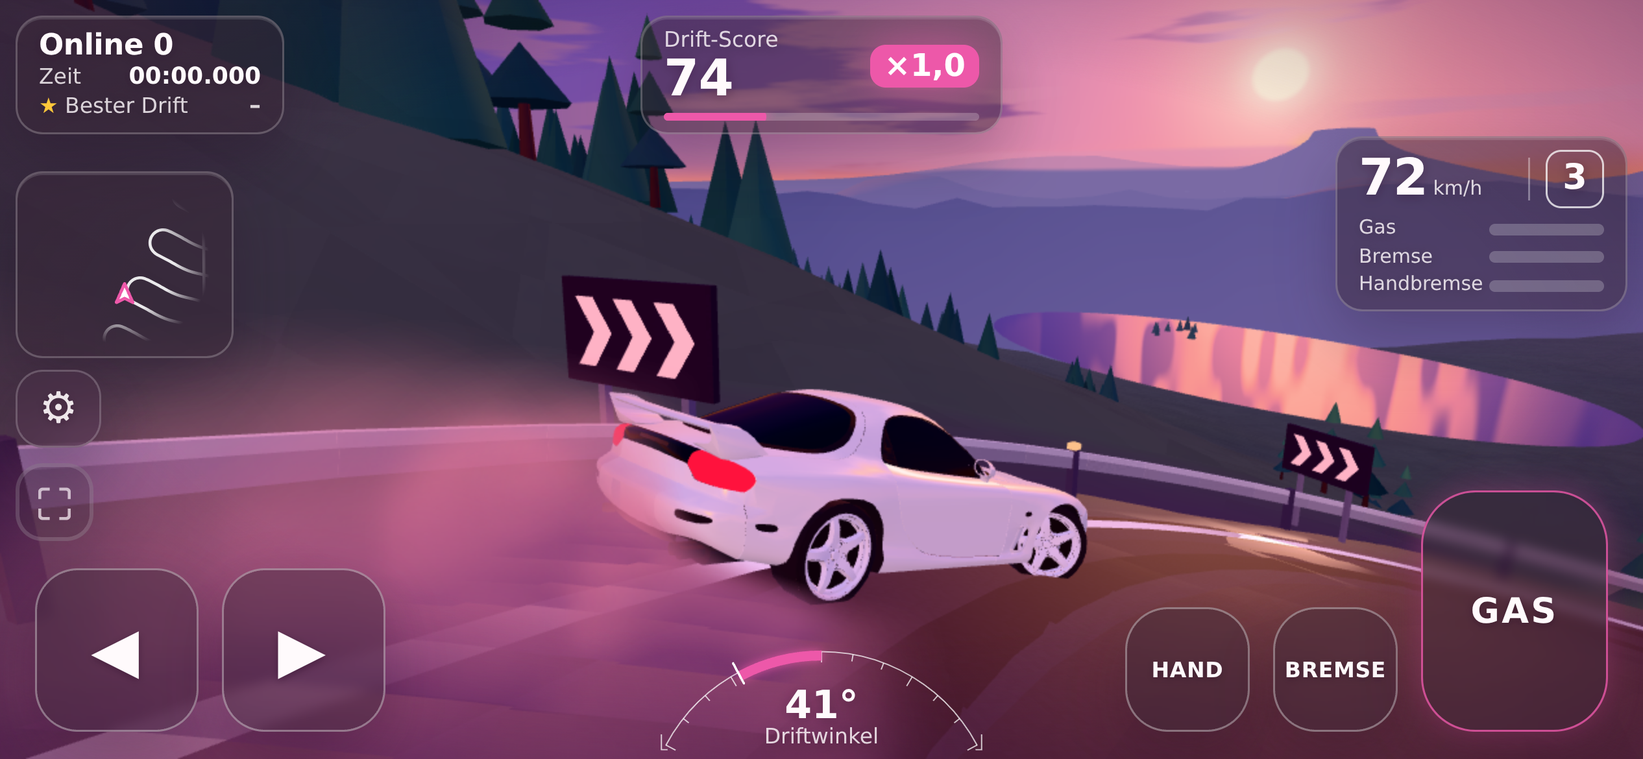
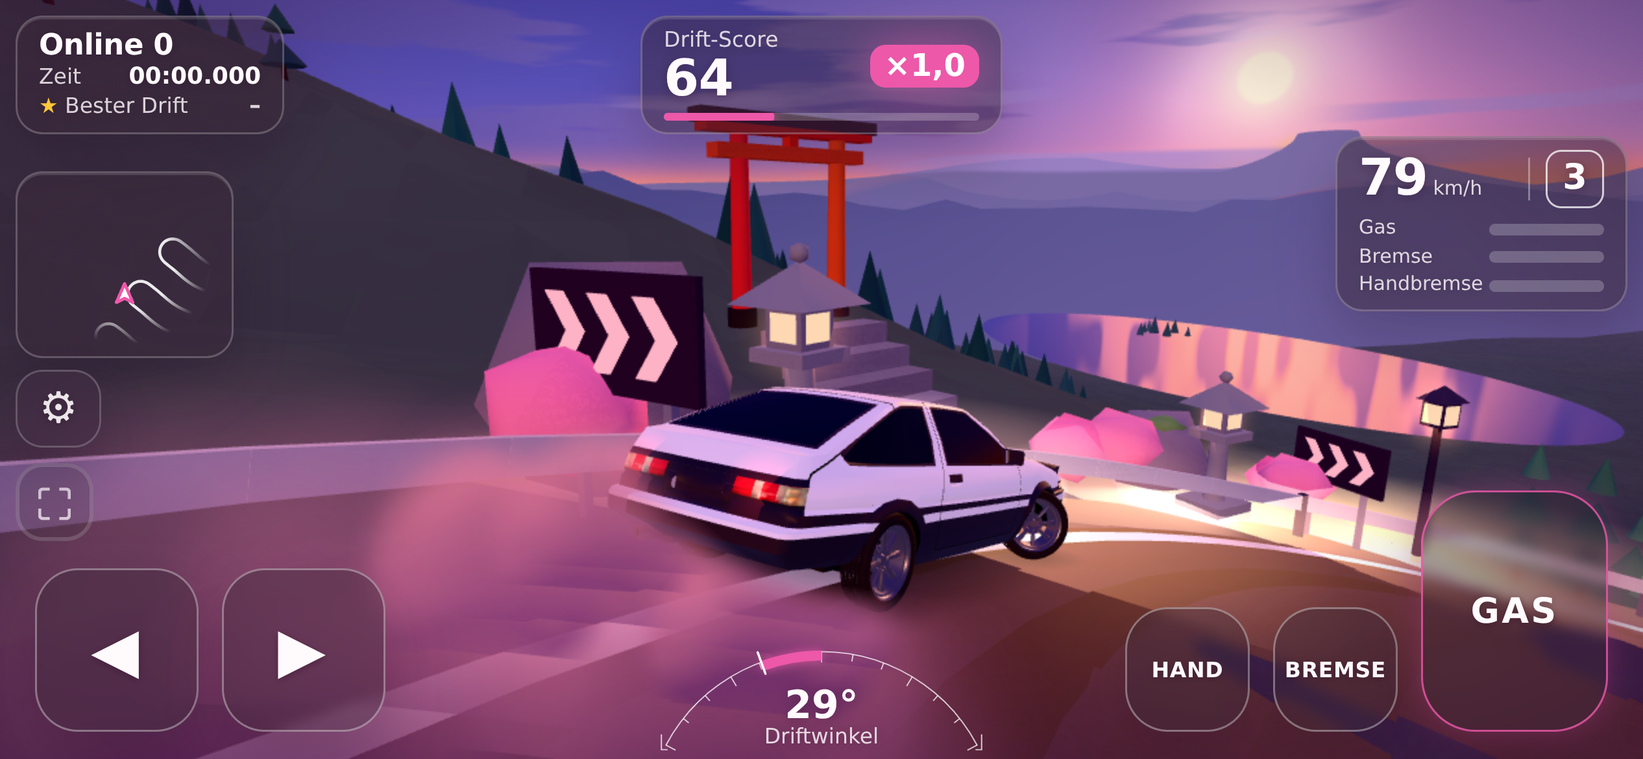
Touge round 11: blue-violet sky top, paint shine from the sky map without sparkle points, hairpin sets (rock wall, torii with stair, stone lanterns, post lantern, cherry bushes, inside island, light pools), lit plaza with slabs and edges, phone 116k; LOOK-LOG.md

diff --git a/game/view/look/world.js b/game/view/look/world.js
@@ -69,13 +69,16 @@ export function buildWorld(scene, look, tierName = 'high') {
   if (scene.bridge) bridge(S, f, scene, look, lite);
   // the road has its own mesh: a slightly glossy material that shines in the low sun (the page gives it the sky as reflection)
   const Rb = new Builder({ seed: 7, jitter: 0, wobble: 0, bake: false });
+  Rb.lite = lite;
   road(Rb, f, look, onPlaza, mulberry32(23), lite, scene);
   zones(Rb, f, scene, look);
-  if (scene.plaza) plaza(S, G, f, scene, look, lite, lampHeads);
   const pools = [];   // warm pools of light on the ground under the lamps and lanterns: [x, y, z, radius] in drawing space
+  if (scene.plaza) plaza(S, G, f, scene, look, lite, lampHeads, pools);
   roadside(S, G, f, look, tier, sideInfo, onPlaza, scene, nearPlaza, lampHeads, pools);
   trees(S, f, scene, look, tier, rnd, lite);
-  rocks(S, f, look, tier, rnd, sideInfo, lite);
+  // no loose boulders where a hairpin has its own set (scene.road.bendSets): the wall is there
+  const sets = scene.road.bendSets ? bends(f.info, { min: f.bendMin, span: f.bendSpan }).filter((b) => Math.abs(b.turn) > 1).map((b) => pointAt(f.road, f.info, b.s + 15)) : [];
+  rocks(S, f, look, tier, rnd, sideInfo, lite, (x, z) => sets.some((p) => Math.hypot(p.x - x, p.z - z) < 38));
   details(S, G, f, scene, look, tier, mulberry32(29), lite, sideInfo, onPlaza);
   if (scene.road.lamps) roadLamps(S, G, f, scene, look, sideInfo, lampHeads, pools);
   if (scene.props) props(S, G, f, scene, look, lite, lampHeads);
@@ -275,8 +278,10 @@ function strip(S, f, a, b, ya, yb, colour, keep = () => true) {
 
 /** A ribbon along the road through lateral offsets `offs` (metres, + = right), coloured per road point and column, at the road's drawn height. */
 function ribbon(S, f, offs, colour, { y = 0.02, keep = () => true, dy = () => 0, shift = () => 0 } = {}) {
-  const right = (d) => [d[1], -d[0]], runs = [];
-  for (let i = 0; i < f.road.length; i++) if (keep(i)) { if (!runs.length || i !== runs[runs.length - 1].at(-1) + 1) runs.push([i]); else runs[runs.length - 1].push(i); }
+  const right = (d) => [d[1], -d[0]], runs = [], H = f.info.head, n = f.road.length;
+  // a lite builder (the phone) takes every second point where the road runs nearly straight; in the bends every point stays
+  const fine = (i) => !S.lite || i % 2 === 0 || i === n - 1 || Math.abs(Math.atan2(Math.sin(H[Math.min(n - 1, i + 1)] - H[Math.max(0, i - 1)]), Math.cos(H[Math.min(n - 1, i + 1)] - H[Math.max(0, i - 1)]))) > 0.06;
+  for (let i = 0; i < n; i++) if (keep(i) && fine(i)) { const last = runs.at(-1)?.at(-1); if (last === undefined || !(i === last + 1 || (i === last + 2 && keep(last + 1)))) runs.push([i]); else runs[runs.length - 1].push(i); }
   for (const run of runs) {
     if (run.length < 2) continue;
     const g = gridGeo(run.length, offs.length, (r, c) => {
@@ -361,11 +366,20 @@ function zones(S, f, scene, look) {
 }
 
 // ---------------------------------------------------------------- the meeting place: surface, bays, kerb, a rail on the valley side, lamps, benches, its own trees
-function plaza(S, G, f, scene, look, lite, lampHeads) {
-  const P = scene.plaza, R = look.road, pts = P.pts;
+function plaza(S, G, f, scene, look, lite, lampHeads, pools = []) {
+  const P = scene.plaza, R = look.road, pts = P.pts, rnd = mulberry32(41);
+  // scene.plaza.slabs (metres): the floor in stone slabs, each a little lighter or darker, with lighter joints between them (the joints are the floor below)
+  if (P.slabs && P.surface !== false) {
+    const xs = pts.map((p) => p[0]), zs = pts.map((p) => p[1]), n = P.slabs, gap = 0.09, base = C(R.plaza), k = new THREE.Color();
+    for (let x = Math.min(...xs); x < Math.max(...xs); x += n) for (let z = Math.min(...zs); z < Math.max(...zs); z += n) {
+      if (![[x, z], [x + n, z], [x, z + n], [x + n, z + n]].every(([a, b]) => insidePoly(pts, a, b))) continue;
+      k.copy(base).multiplyScalar(0.78 + rnd() * 0.3).lerp(C(R.asphaltLight), 0.2 * noise2(x / 15, z / 15) + 0.15);
+      S.box(n - gap, 0.03, n - gap, X(x + n / 2), 0.03, z + n / 2, k.clone(), { r: 0, jitter: 0 });
+    }
+  }
   if (P.surface !== false) {
   const tris = THREE.ShapeUtils.triangulateShape(pts.map(([x, z]) => new THREE.Vector2(x, z)), []);
-  const pos = [], col = [], base = C(R.plaza), k = new THREE.Color();
+  const pos = [], col = [], base = P.slabs ? C(R.plaza).lerp(C(R.kerb), 0.35) : C(R.plaza), k = new THREE.Color();   // under slabs: the light joints
   for (const t of tris) for (const v of t) { const [x, z] = pts[v]; pos.push(X(x), 0.012, z); k.copy(base).lerp(C(R.asphaltLight), 0.3 + 0.3 * noise2(x / 20, z / 20)); col.push(k.r, k.g, k.b); }
   const g = new THREE.BufferGeometry();
   g.setAttribute('position', new THREE.Float32BufferAttribute(pos, 3)); g.setAttribute('color', new THREE.Float32BufferAttribute(col, 3));
@@ -387,6 +401,28 @@ function plaza(S, G, f, scene, look, lite, lampHeads) {
     else if (!roadHere && P.kerb !== false) S.box(0.3, 0.16, len, X(mx), 0.08, mz, C(R.kerb), { r: 0, ry });
     const fall = f.base(mx + nx * out * 14, mz + nz * out * 14) < -2;
     if (P.rail && fall && !roadHere) railRun(S, G, look, [[p[0] + nx * out * 0.7, p[1] + nz * out * 0.7], [q[0] + nx * out * 0.7, q[1] + nz * out * 0.7]], 4, lite);
+    // scene.plaza.edges: where the land beyond rises a bank of soft rocks, moss and cherry bushes; where it falls stone lanterns with their light
+    if (P.edges && !roadHere) {
+      const rise = f.base(mx + nx * out * 10, mz + nz * out * 10) > 1.5, L2 = look.land;
+      for (let d = 2; d < len - 1; d += rise ? (lite ? 4 : 2.6) : 14) {
+        const bx = p[0] + (dx / len) * d, bz = p[1] + (dz / len) * d;
+        if (Math.hypot(bx - start[0], bz - start[1]) < 12) continue;   // the way out to the road stays clear
+        if (rise) {
+          const o = 1.6 + rnd() * 1.2, x = bx + nx * out * o, z = bz + nz * out * o, r = 0.8 + rnd() * 0.7;
+          S.ball(r, X(x), r * 0.5, z, C(L2.rock).lerp(C(L2.rockDark), rnd() * 0.6), { detail: 1, sx: 1.3, sy: 0.9, sz: 1.0, ry: rnd() * 3 });
+          if (rnd() < 0.5) S.ball(r * 0.6, X(x), r * 1.0, z, C(L2.high).lerp(C(L2.moss ?? '#6f8a5c'), 0.6), { detail: 1, sx: 1.3, sy: 0.45, sz: 1.1 });
+          if (rnd() < 0.35) bush(S, look, x - nx * out * 1.4, 0, z - nz * out * 1.4, 0.8 + rnd() * 0.3, rnd, lite);
+        } else {
+          const x = bx - nx * out * 0.9, z = bz - nz * out * 0.9;
+          stoneLantern(S, G, look, x, 0, z, ry, 0.95); lampHeads.push([X(x), 1.75, z, 1.5]); pools.push([X(x), 0, z, 4.5]);
+        }
+      }
+    }
+  }
+  // scene.plaza.gateLights: a stone lantern on each side of the torii where the road leaves, lighting its pillars from below
+  for (const m of P.gateLights ? scene.marks ?? [] : []) if (m.type === 'gate') for (const sd of [-1, 1]) {
+    const w = (m.width ?? 2.6) / 2 + 1.4, ry = m.ry ?? 0, x = m.x + Math.cos(ry) * sd * w, z = m.z - Math.sin(ry) * sd * w;
+    stoneLantern(S, G, look, x, f.height(x, z), z, ry, 1.1); lampHeads.push([X(x), f.height(x, z) + 2.0, z, 1.8]); pools.push([X(x), f.height(x, z), z, 6]);
   }
   const L = look.lamp;
   for (const [x, z] of P.lamps ?? []) {
@@ -394,6 +430,7 @@ function plaza(S, G, f, scene, look, lite, lampHeads) {
     S.box(0.18, 0.18, 1.6, X(x), 6.2, z - 0.7, C(L.pole), { r: 0 });
     G.box(0.5, 0.06, 0.32, X(x), 6.08, z - 1.35, glow(L.light, 2.2), { r: 0 });
     lampHeads.push([X(x), 6.0, z - 1.35]);
+    if (L.pool) pools.push([X(x), 0, z - 1.35, L.pool * 1.2]);
   }
   for (const [x, z, h] of P.benches ?? []) {
     S.box(2.0, 0.08, 0.5, X(x), 0.48, z, C('#8a6a5e'), { r: 0, ry: -h });
@@ -420,8 +457,11 @@ function railRun(S, G, look, line0, every, lite, yAt = () => 0) {
     const [ax, az] = line[i], [bx, bz] = line[i + 1], dx = bx - ax, dz = bz - az, len = Math.hypot(dx, dz);
     if (len < 0.01) continue;
     const ry = Math.atan2(X(dx), dz), ya = yAt(ax, az), yb = yAt(bx, bz), ym = (ya + yb) / 2, rx = -Math.atan2(yb - ya, len);
-    S.box(0.08, 0.2, len + 0.05, X((ax + bx) / 2), 0.52 + ym, (az + bz) / 2, beam, { r: 0, ry, rx, jitter: 0 });   // a W-beam at 0.75 m, as on real roads
-    S.box(0.1, 0.1, len + 0.05, X((ax + bx) / 2), 0.66 + ym, (az + bz) / 2, light, { r: 0, ry, rx, jitter: 0 });
+    if (lite) S.box(0.1, 0.28, len + 0.05, X((ax + bx) / 2), 0.56 + ym, (az + bz) / 2, beam.clone().lerp(light, 0.5), { r: 0, ry, rx, jitter: 0 });   // the phone: one beam
+    else {
+      S.box(0.08, 0.2, len + 0.05, X((ax + bx) / 2), 0.52 + ym, (az + bz) / 2, beam, { r: 0, ry, rx, jitter: 0 });   // a W-beam at 0.75 m, as on real roads
+      S.box(0.1, 0.1, len + 0.05, X((ax + bx) / 2), 0.66 + ym, (az + bz) / 2, light, { r: 0, ry, rx, jitter: 0 });
+    }
     for (let d = (every - acc) % every; d < len; d += every) {
       const t = d / len, px = X(ax + dx * t), pz = az + dz * t, py = ya + (yb - ya) * t;
       S.box(0.13, 3.0, 0.13, px, -0.75 + py, pz, post, { r: 0, ry });   // long posts: on a cliff edge the land below may already fall away
@@ -477,6 +517,7 @@ function roadside(S, G, f, look, tier, sideInfo, onPlaza, scene, nearPlaza = () 
     }
     // look.lantern.bends: a stone lantern on the inside of every bend and one at its exit on the outside (between the road and the rail, where the
     // chase camera looks), each with a warm pool of light round it
+    if (scene.road.bendSets && Math.abs(b.turn) > 1) { bendSet(S, G, f, look, b, lampHeads, pools, tier.cell > 8); continue; }
     if (look.lantern?.bends) for (const [ds, sd, o] of [[0, -out, hw + 2.4], [20, out, hw + 0.95]]) {
       const p = pointAt(f.road, f.info, b.s + ds), r = right(p.dir), side = sd;
       const x = p.x + r[0] * side * o, z = p.z + r[1] * side * o, y = Math.max(f.height(x, z), f.roadY(b.s + ds) - 0.2), k = look.lantern.size ?? 1.1;
@@ -581,9 +622,10 @@ function trees(S, f, scene, look, tier, rnd, lite) {
 }
 
 // ---------------------------------------------------------------- rocks: faceted boulders at the foot of the cut and on steep slopes
-function rocks(S, f, look, tier, rnd, sideInfo, lite) {
+function rocks(S, f, look, tier, rnd, sideInfo, lite, clear = () => false) {
   const L = look.land, right = (d) => [d[1], -d[0]];
   const boulder = (x, z, r) => {
+    if (clear(x, z)) return;
     const y = f.height(x, z);
     S.ball(r, X(x), y + r * 0.25, z, C(L.rock).lerp(C(L.rockDark), rnd() * 0.7), { detail: lite ? 0 : 1, sx: 0.8 + rnd() * 0.5, sy: 0.55 + rnd() * 0.3, sz: 0.8 + rnd() * 0.5, ry: rnd() * 3, rx: rnd() * 0.3 });
   };
@@ -605,6 +647,77 @@ function rocks(S, f, look, tier, rnd, sideInfo, lite) {
 // ---------------------------------------------------------------- the small things: grass tufts and stones at the roadside, bushes, petals under the
 // cherry trees, power poles with sagging wires along the slope, a stone lantern and a small shrine gate by the plaza
 const TRI = (() => { const g = new THREE.BufferGeometry(); g.setAttribute('position', new THREE.Float32BufferAttribute([-0.5, 0, -0.35, 0.5, 0, -0.2, 0, 0, 0.45], 3)); g.setAttribute('normal', new THREE.Float32BufferAttribute([0, 1, 0, 0, 1, 0, 0, 1, 0], 3)); return g; })();
+
+/** A torii: two red pillars, a tie beam and a black-capped top beam, `w` wide and `hh` high, facing along ry. */
+function torii(S, look, x, y, z, ry, w = 2.6, hh = 3.2) {
+  const red = C(look.lantern?.gate ?? '#c8423f'), k = hh / 3.2;
+  S.push(trs(X(x), y, z, 0, ry, 0));
+  for (const sx of [-w / 2, w / 2]) { S.cyl(0.14 * k, 0.17 * k, hh, sx, hh / 2, 0, red, { seg: 8 }); S.cyl(0.24 * k, 0.24 * k, 0.3 * k, sx, 0.15 * k, 0, C('#2e2428'), { seg: 8 }); }
+  S.box(w + 1.0 * k, 0.22 * k, 0.3 * k, 0, 2.75 * k, 0, red, { r: 0.03 });
+  S.box(w + 1.6 * k, 0.2 * k, 0.36 * k, 0, 3.25 * k, 0, C('#2e2428'), { r: 0.03 });
+  S.box(w + 1.4 * k, 0.16 * k, 0.32 * k, 0, 3.1 * k, 0, red, { r: 0.02 });
+  S.box(0.18 * k, 0.5 * k, 0.2 * k, 0, 3.0 * k, 0, red, { r: 0 });
+  S.pop();
+}
+
+/** A low cherry bush: a few soft pink balls, lighter on top (no trunk). */
+function bush(S, look, x, y, z, r, rnd, lite) {
+  const P = look.cherry, light = C(P.blossom[3]), dark = C(P.blossom[2]);
+  for (let k = 0, n = lite ? 3 : 5; k < n; k++) {
+    const a = rnd() * 6.3, d = k ? r * (0.5 + rnd() * 0.4) : 0, up = k ? rnd() : 1, rr = r * (k ? 0.5 + rnd() * 0.25 : 0.75);
+    S.ball(rr, X(x + Math.cos(a) * d), y + rr * 0.8 + up * r * 0.3, z + Math.sin(a) * d, C(P.blossom[Math.floor(rnd() * 2)]).lerp(up > 0.5 ? light : dark, 0.4), { detail: lite ? 0 : 1, sy: 0.8 });
+  }
+}
+
+/** A lantern on a post (the road's warm lights in the mockup): a dark post, a box with glowing glass, a small roof; `h` high. */
+function postLantern(S, G, look, x, y, z, ry, h = 2.8) {
+  const pole = C(look.lamp.pole);
+  S.cyl(0.07, 0.09, h, X(x), y + h / 2, z, pole, { seg: 6 });
+  S.box(0.42, 0.5, 0.42, X(x), y + h + 0.25, z, pole, { r: 0.02, ry });
+  G.box(0.34, 0.38, 0.44, X(x), y + h + 0.25, z, glow(look.lamp.light, look.lantern?.glow ?? 2.4), { r: 0, ry });
+  G.box(0.44, 0.38, 0.34, X(x), y + h + 0.25, z, glow(look.lamp.light, look.lantern?.glow ?? 2.4), { r: 0, ry });
+  S.cone(0.42, 0.3, X(x), y + h + 0.65, z, pole, { seg: 4, ry: ry + Math.PI / 4 });
+}
+
+/**
+ * The set of a hairpin as in the mockup (scene.road.bendSets; bends sharper than |turn| 1): on the outside a rock wall in soft stacked
+ * boulders with moss on top, a red torii at the top of a stone stair in a gap of the wall, stone lanterns, cherry bushes and a lantern
+ * on a post; on the inside a small island behind a kerb with mossy rocks, a stone lantern and a bush. Every light leaves a warm pool.
+ */
+function bendSet(S, G, f, look, b, lampHeads, pools, lite) {
+  const rnd = mulberry32(Math.round(b.s * 7)), hw = f.hw, out = b.turn > 0 ? -1 : 1, right = (d) => [d[1], -d[0]], L = look.land;
+  // a place at `ds` metres from the apex, `o` metres out from the road's middle on `side`: x, z, the ground there, the road's height, the road's heading
+  const at = (ds, o, side) => { const p = pointAt(f.road, f.info, b.s + ds), r = right(p.dir), x = p.x + r[0] * side * o, z = p.z + r[1] * side * o, ry = f.roadY(b.s + ds);
+    return { x, z, y: Math.max(f.height(x, z), ry - 0.15), road: ry, ry: Math.atan2(X(p.dir[0]), p.dir[1]), face: Math.atan2(-X(r[0] * side), -r[1] * side) }; };
+  const light = (q, h, pool, halo) => { lampHeads.push([X(q.x), q.y + h, q.z, halo]); pools.push([X(q.x), q.road, q.z, pool]); };
+  const rock = () => C(L.rock).lerp(C(L.rockDark), rnd() * 0.6), moss = () => C(L.high).lerp(C(look.land.moss ?? '#6f8a5c'), 0.5 + rnd() * 0.5);
+  // the outside right after the apex is what the chase camera has on its left (further on the outside lies straight ahead, the view into
+  // the valley stays open): there the rock wall, with a gap for the stair up to the torii
+  const stairAt = 4.5;
+  for (let ds = 1; ds < 9; ds += lite ? 2.6 : 1.8) {
+    if (Math.abs(ds - stairAt) < 1.8) continue;
+    const q = at(ds, hw + 3.2 + rnd() * 0.6, out), r = 0.9 + rnd() * 0.5;
+    S.ball(r, X(q.x), q.y + r * 0.8, q.z, rock(), { detail: lite ? 0 : 1, sx: 1.2, sy: 1.3, sz: 0.9, ry: rnd() * 3 });
+    // a second boulder on top (on the ground of the first, set back a little) and moss on the highest one
+    let topX = q.x, topZ = q.z, topY = q.y + r * 1.75, topR = r;
+    if (!lite) { const q2 = at(ds + 0.6, hw + 3.8, out), r2 = r * 0.8; S.ball(r2, X(q2.x), q.y + r * 1.5 + r2 * 0.6, q2.z, rock(), { detail: 1, sx: 1.2, sy: 1.2, sz: 0.9, ry: rnd() * 3 }); topX = q2.x; topZ = q2.z; topY = q.y + r * 1.5 + r2 * 1.95; topR = r2; }
+    if (rnd() < 0.6) S.ball(topR * 0.55, X(topX), topY - topR * 0.12, topZ, moss(), { detail: 1, sx: 1.2, sy: 0.45, sz: 1.0 });   // moss and grass on the ledges
+  }
+  // the stair up through the gap and the torii at its top
+  const steps = 6;
+  for (let k = 0; k < steps; k++) { const q = at(stairAt, hw + 2.6 + k * 0.55, out); S.box(2.4, 0.36, 0.6, X(q.x), q.road + 0.18 + k * 0.36, q.z, C(look.lantern.stone).lerp(C(L.rockDark), 0.2 + (k % 2) * 0.15), { r: 0.04, ry: q.face }); }
+  const top = at(stairAt, hw + 2.6 + steps * 0.55 + 0.4, out);
+  torii(S, look, top.x, top.road + steps * 0.36, top.z, top.face, 2.2, 3.4);
+  // stone lanterns in front of the wall, a lantern on a post, cherry bushes
+  for (const ds of [1.5, 8.5]) { const q = at(ds, hw + 1.7, out); stoneLantern(S, G, look, q.x, q.road, q.z, q.ry, 1.0); light(q, 1.85, 5, 1.6); }
+  { const q = at(12, hw + 0.9, out); postLantern(S, G, look, q.x, q.road, q.z, q.ry); light(q, 3.05, 6, 2.0); }
+  for (const [ds, o] of [[0, hw + 2.3], [7, hw + 2.3], [10.5, hw + 2.2]]) { const q = at(ds, o, out); bush(S, look, q.x, q.road, q.z, 0.8 + rnd() * 0.3, rnd, lite); }
+  // the inside: a kerb, mossy rocks, a stone lantern and a bush on a small island
+  for (let ds = -10; ds < 16; ds += 1.6) { const q = at(ds, hw + 0.35, -out); S.box(0.3, 0.22, 1.7, X(q.x), q.road + 0.11, q.z, C(look.road.kerb), { r: 0.04, ry: q.ry }); }
+  for (const [ds, o, r] of [[0, hw + 3.4, 1.3], [7, hw + 4.4, 1.0], [-6, hw + 3.8, 0.9]]) { const q = at(ds, o, -out); S.ball(r, X(q.x), q.road + r * 0.45, q.z, rock(), { detail: 1, sy: 0.75, ry: rnd() * 3 }); S.ball(r * 0.6, X(q.x), q.road + r * 1.05, q.z, moss(), { detail: 1, sx: 1.2, sy: 0.4, sz: 1.2 }); }
+  { const q = at(4, hw + 2.2, -out); stoneLantern(S, G, look, q.x, q.road, q.z, q.ry, 1.05); light(q, 1.95, 5, 1.6); }
+  { const q = at(-2, hw + 2.0, -out); bush(S, look, q.x, q.road, q.z, 1.0, rnd, lite); }
+}
 
 /** A stone lantern (tōrō): plinth, shaft, the light box with a warm window, a pyramid roof; `k` scales it. */
 function stoneLantern(S, G, look, x, y, z, ry, k = 1) {
@@ -683,15 +796,7 @@ function details(S, G, f, scene, look, tier, rnd, lite, sideInfo, onPlaza) {
       S.box(0.15, 0.14, 0.15, X(m.x), y + 0.7, m.z, C('#2b2630'), { r: 0.02, jitter: 0 });
       G.box(0.13, 0.3, 0.155, X(m.x), y + 0.8, m.z, glow(look.chevron?.arrow ?? '#ff5a96', 4), { r: 0, jitter: 0 });   // seen from every side, as bright as the chevrons
     } else if (m.type === 'gate') {
-      S.push(trs(X(m.x), y, m.z, 0, ry, 0));
-      // a torii: two red pillars, a tie beam and a black-capped top beam; m.width / m.height scale it (a road torii is wide)
-      const w = m.width ?? 2.6, hh = m.height ?? 3.2, k = hh / 3.2;
-      for (const sx of [-w / 2, w / 2]) { S.cyl(0.14 * k, 0.17 * k, hh, sx, hh / 2, 0, red, { seg: 8 }); S.cyl(0.24 * k, 0.24 * k, 0.3 * k, sx, 0.15 * k, 0, C('#2e2428'), { seg: 8 }); }
-      S.box(w + 1.0 * k, 0.22 * k, 0.3 * k, 0, 2.75 * k, 0, red, { r: 0.03 });
-      S.box(w + 1.6 * k, 0.2 * k, 0.36 * k, 0, 3.25 * k, 0, C('#2e2428'), { r: 0.03 });
-      S.box(w + 1.4 * k, 0.16 * k, 0.32 * k, 0, 3.1 * k, 0, red, { r: 0.02 });
-      S.box(0.18 * k, 0.5 * k, 0.2 * k, 0, 3.0 * k, 0, red, { r: 0 });
-      S.pop();
+      torii(S, look, m.x, y, m.z, ry, m.width ?? 2.6, m.height ?? 3.2);
     }
   }
 }

diff --git a/game/view/look/sky.js b/game/view/look/sky.js
@@ -17,6 +17,8 @@ export function makeSky(look, radius = 1800) {
       uTop: { value: new THREE.Color(s.top) }, uMid: { value: new THREE.Color(s.mid) }, uHorizon: { value: new THREE.Color(s.horizon) },
       uBelow: { value: new THREE.Color(s.below) }, uSun: { value: new THREE.Color(s.sun).multiplyScalar(s.sunGlow ?? 1) }, uGlow: { value: new THREE.Color(s.glow) },
       uSunDir: { value: sunDirection(look) }, uSunCos: { value: Math.cos((s.sunSize * Math.PI) / 180) }, uMidH: { value: s.midHeight }, uStrength: { value: s.glowStrength },
+      // sky.warmHeight: how far above the sun the warm side of the sky reaches (default 0.35); sky.topHeight: where the top colour is reached (default 0.8)
+      uWarmH: { value: s.warmHeight ?? 0.35 }, uTopH: { value: s.topHeight ?? 0.8 },
       uCloudLit: { value: new THREE.Color(cl.lit) }, uCloudShade: { value: new THREE.Color(cl.shade) }, uClouds: { value: cl.amount },
       // a moon (look.sky.moon: dir in simulation axes, size in degrees, colour, glow): a disc with a soft halo, a little darker on the side away from the sun
       uMoonDir: { value: s.moon ? new THREE.Vector3(X(s.moon.dir[0]), s.moon.dir[1], s.moon.dir[2]).normalize() : new THREE.Vector3(0, -1, 0) },
@@ -27,7 +29,7 @@ export function makeSky(look, radius = 1800) {
       void main() { vDir = position; gl_Position = projectionMatrix * modelViewMatrix * vec4(position, 1.0); }`,
     fragmentShader: /* glsl */ `
       uniform vec3 uTop, uMid, uHorizon, uBelow, uSun, uGlow, uSunDir, uCloudLit, uCloudShade;
-      uniform float uSunCos, uMidH, uStrength, uClouds, uMoonCos, uMoonGlow;
+      uniform float uSunCos, uMidH, uStrength, uClouds, uMoonCos, uMoonGlow, uWarmH, uTopH;
       uniform vec3 uMoonDir, uMoon;
       varying vec3 vDir;
       float h2(vec2 p) { return fract(sin(dot(p, vec2(127.1, 311.7))) * 43758.5453); }
@@ -38,11 +40,11 @@ export function makeSky(look, radius = 1800) {
         vec3 d = normalize(vDir);
         float e = d.y;
         vec3 col = e < 0.0 ? mix(uHorizon, uBelow, smoothstep(0.0, -0.2, e))
-                 : e < uMidH ? mix(uHorizon, uMid, smoothstep(0.0, uMidH, e)) : mix(uMid, uTop, smoothstep(uMidH, 0.8, e));
+                 : e < uMidH ? mix(uHorizon, uMid, smoothstep(0.0, uMidH, e)) : mix(uMid, uTop, smoothstep(uMidH, uTopH, e));
         float c = max(dot(d, uSunDir), 0.0);
-        float band = 1.0 - smoothstep(0.0, 0.35, abs(e - uSunDir.y));
+        float band = 1.0 - smoothstep(0.0, uWarmH, abs(e - uSunDir.y));
         col = mix(col, uGlow, pow(c, 3.0) * band * 0.5 * uStrength);           // the warm side of the sky
-        col += uGlow * (pow(c, 12.0) * 0.45 + pow(c, 80.0) * 0.9) * uStrength;  // the soft halo round the sun
+        col += uGlow * (pow(c, 12.0) * 0.45 * (1.0 - smoothstep(0.0, uWarmH * 1.5, e - uSunDir.y)) + pow(c, 80.0) * 0.9) * uStrength;  // the soft halo round the sun (the wide part stays low)
         // soft streaks of cloud above the horizon, lit from below on the sun's side
         // azimuth measured from the sun, so the seam of atan (at +-pi) lies behind the viewer when looking towards the sun side
         vec2 sh = normalize(uSunDir.xz + vec2(1e-4)); float az = atan(d.x * sh.y - d.z * sh.x, d.x * sh.x + d.z * sh.y);

diff --git a/game/view/look/stage.js b/game/view/look/stage.js
@@ -152,7 +152,7 @@ export function carMaker(stage) {
     if (look.car?.tail) materials.light_rear.color.set(look.car.tail).multiplyScalar(look.car.tailGlow ?? 1);
     // look.car.gloss: { env, roughness, coat }: how much of the sky the paint mirrors (dusk: less, so the roof shows its shape, not white)
     const gl = look.car?.gloss;
-    if (gl) { const p = materials.paint; if (gl.env !== undefined) p.envMapIntensity = gl.env; if (gl.roughness !== undefined) p.roughness = gl.roughness; if (gl.coat !== undefined && p.clearcoatRoughness !== undefined) p.clearcoatRoughness = gl.coat; if (gl.clearcoat !== undefined && p.clearcoat !== undefined) p.clearcoat = gl.clearcoat; }
+    if (gl) { const p = materials.paint; if (gl.env !== undefined) p.envMapIntensity = gl.env; if (gl.roughness !== undefined) p.roughness = gl.roughness; if (gl.coat !== undefined && p.clearcoatRoughness !== undefined) p.clearcoatRoughness = gl.coat; if (gl.clearcoat !== undefined && p.clearcoat !== undefined) p.clearcoat = gl.clearcoat; if (gl.specular !== undefined && p.specularIntensity !== undefined) p.specularIntensity = gl.specular; }   // gloss.specular: the direct lights' highlight (lower: no sparkling points, the shine comes from the sky map)
     const m = model ? await loadCarModel(model, { tier: carTier, materials }) : null;
     return m ? { ...m, materials } : buildS15({ paint: new THREE.Color(paint).getHex(), kit, tier: carTier, env });
   };

diff --git a/docs/LOOK-LOG.md b/docs/LOOK-LOG.md
@@ -454,3 +454,31 @@ lanterns (`lantern.bends`, `lamp.pool`); halos sized per head. Lighter rocks.
 Palette shot=tal: mean 63 (brightness 91 / 91, saturation 0.41 / 0.33). High 351k / 52, phone 133k / 25.
 Not done: the stone lanterns do not show in shot=tal or shot=kehre yet (placement); smoke lacks the mockup's shaded round shapes;
 scene.environment for the car (G1); the big boulder above the board in shot=tal; E1, E2, E5, F6.
+
+## Touge round 11 (2026-11-26)
+
+Done:
+- Sky: blue-violet at the top again. The warm side of the sky and the wide sun halo stay low (`sky.warmHeight`); the top colour is
+  reached lower (`sky.topHeight`); lilac instead of pink cloud streaks, fewer of them; saturation 0.85; a darker mauve road.
+- Paint (G1): the paint already took the dusk sky map; the two sparkling points at the roof edge were the direct sun in a very smooth
+  clear coat (seen by switching parts off). Now the shine comes from the sky map: clear coat 0.15, coat roughness 0.3, the direct
+  highlight damped (`car.gloss.specular`), bloom threshold 2.8. Result: a soft light edge, no points, the white not burnt out.
+- Hairpins (`scene.road.bendSets`): a set at every bend sharper than |turn| 1.
+  - On the outside, just after the apex (what the chase camera has on its left; further on lies the view into the valley): a wall of
+    soft stacked boulders with moss, a stone stair through a gap up to a red torii, two stone lanterns, a lantern on a post, cherry
+    bushes.
+  - On the inside: a kerb, mossy rocks, a stone lantern and a bush.
+  - Every light leaves a warm pool on the ground (`lightPools`) and a halo sized per head. Loose boulders are left out there.
+- Plaza (`plaza.slabs`, `edges`, `gateLights`): stone slabs with lighter joints; a bank of rocks, moss and bushes where the land rises;
+  stone lanterns with light where it falls; a lantern on each side of the torii; two more lamps on the north side; pools under the lamps.
+- Phone:
+  - The road ribbons take every second point on straight stretches.
+  - One rail beam, posts every 9 m.
+  - Coarser land and fewer trees.
+  - Result: 149k -> 116k triangles.
+
+Numbers:
+- High: 370k triangles / 51 calls. Phone: 116k / 33; the AE86 alone is about 21 of the phone's calls.
+- Palette on shot=tal: mean 62. The boxes `strasse` and `himmel_mitte` now hit the white car and the torii.
+
+Not done: the smoke has no shaded round shapes; the plaza floor is still dark in the distance.
